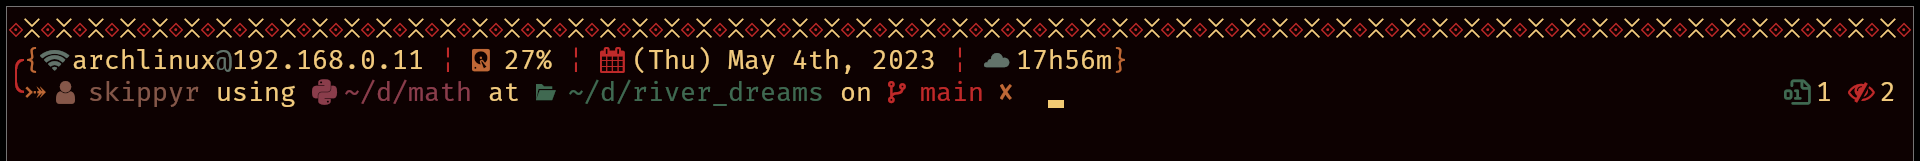
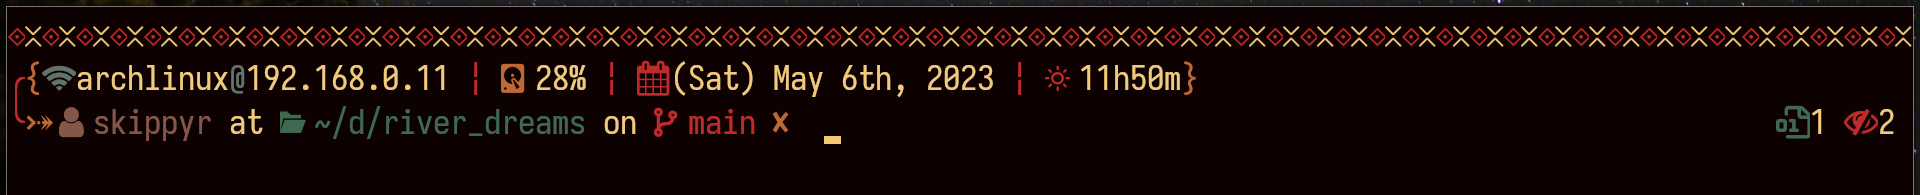
docs: update preview and add font recomendation

diff --git a/README.md b/README.md
@@ -2,7 +2,7 @@
 	<h2>Starting Point</h2>
 	<p>A multi line theme for ZSH.</p>
 	<img src="./images/default_preview.png"/>
-	<p>In the image, River Dreams was used on the <a href="https://github.com/kovidgoyal/kitty">Kitty</a> terminal emulator with the <a href="https://github.com/skippyr/flamerial">Flamerial</a> theme and <code>FiraMono Nerd Font</code> font.</p>
+	<p>In the image, River Dreams was used on the <a href="https://github.com/kovidgoyal/kitty">Kitty</a> terminal emulator with the <a href="https://github.com/skippyr/flamerial">Flamerial</a> theme and <a href="https://github.com/be5invis/Iosevka">Iosevka</a> font.</p>
 	<p>Below, there are descriptions of what the prompt has to offer:</p>
 	<p>In the left prompt you will find:</p>
 	<ul>
@@ -30,6 +30,7 @@
 			<p>These are the compiler and tools needed to compile River Dreams's source code.</p>
 			<li>Install a font patched by the <a href="https://github.com/ryanoasis/nerd-fonts">Nerd Fonts</a> project and the <a href="https://fonts.google.com/noto/specimen/Noto+Sans">Noto Sans Font Family</a>.</li>
 			<p>These fonts contains pretty symbols that are used in the prompt. It is highly recommend to use one to improve your experience, however, they are optional as you can run River Dreams with its fallback text feature.</p>
+			<p>Are you looking for a font recommendation? As River Dreams can take a lot of space in your screen, it turns out to be the perfect environment for you to test out narrow fonts like <a href="https://github.com/be5invis/Iosevka">Iosevka</a>. That font also contains a lot of <a href="https://github.com/be5invis/Iosevka/blob/main/doc/stylistic-sets.md">stylistics sets</a> that make it more likely other fonts: like Fira Mono and Pragmata Pro. You probably will like it.</p>
 			<li>Install a great terminal emulator, like <a href="https://github.com/kovidgoyal/kitty">Kitty</a>.</li>
 			<p>Even that River Dreams and ZSH can run basically in any terminal emulator, using one that is fast and that can handle unicode character really well will improve your experience.</p>
 			<li>Download this repository to a directory in your machine.</li>
